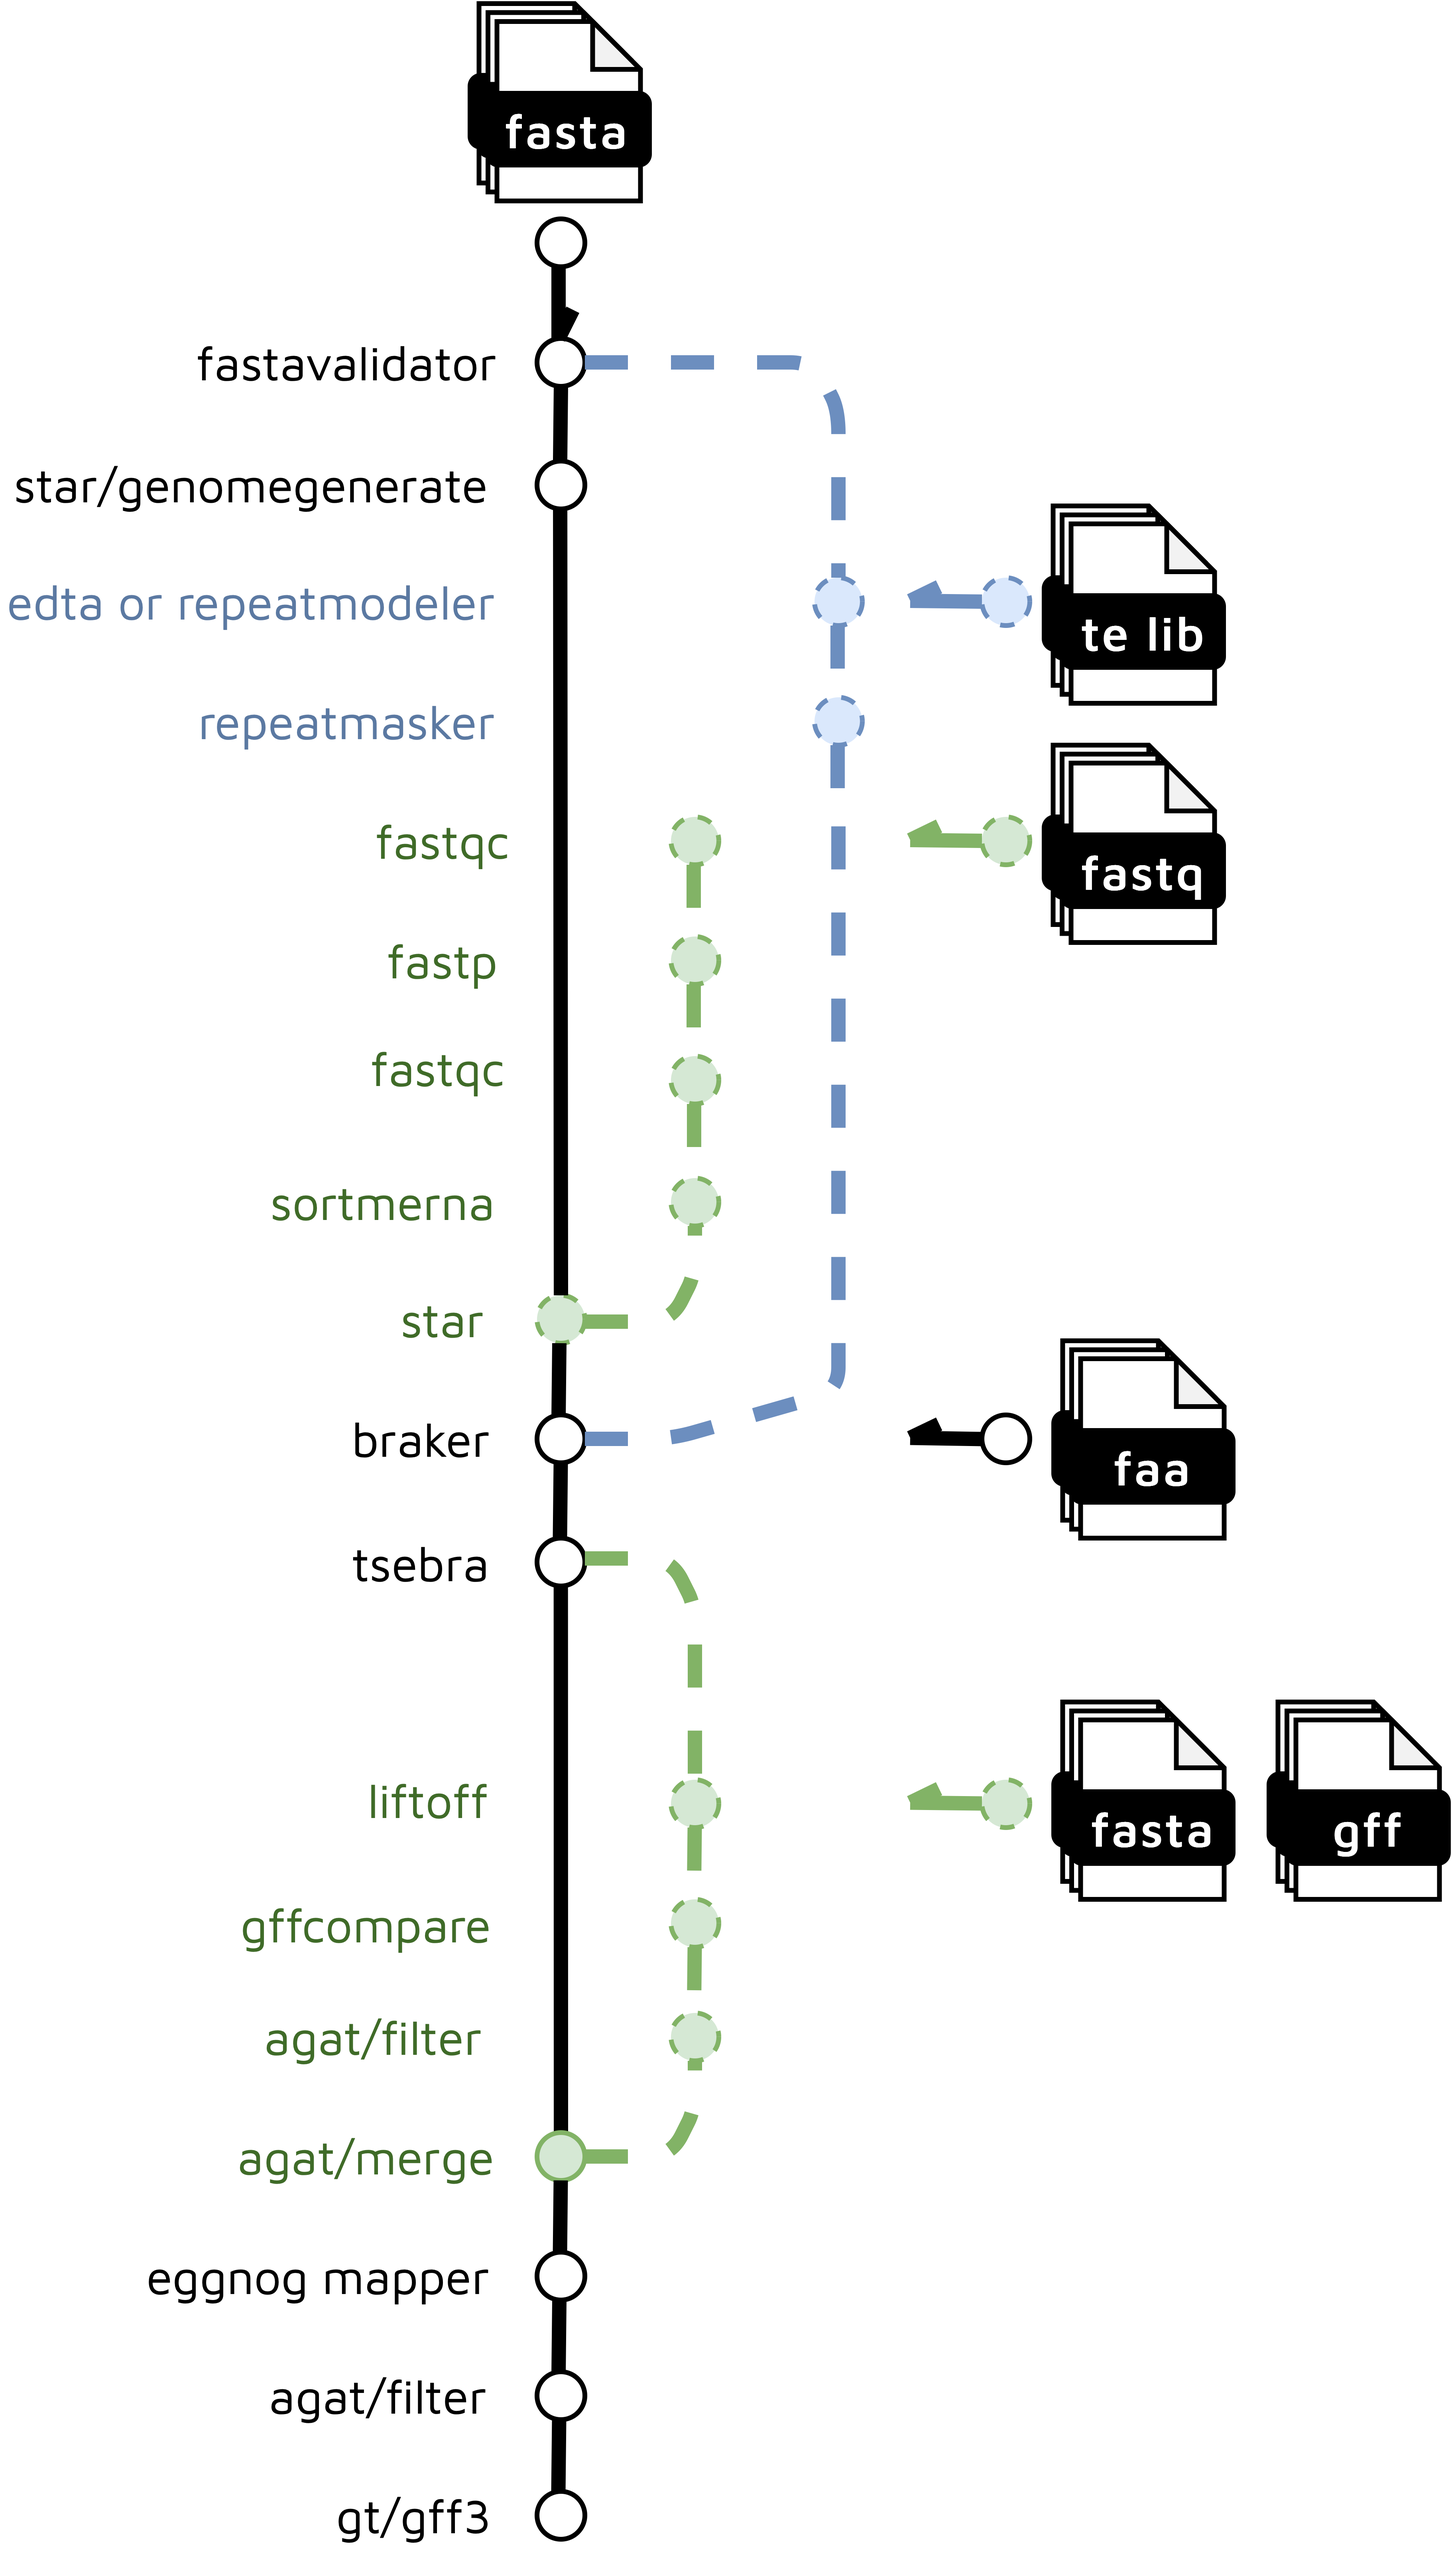
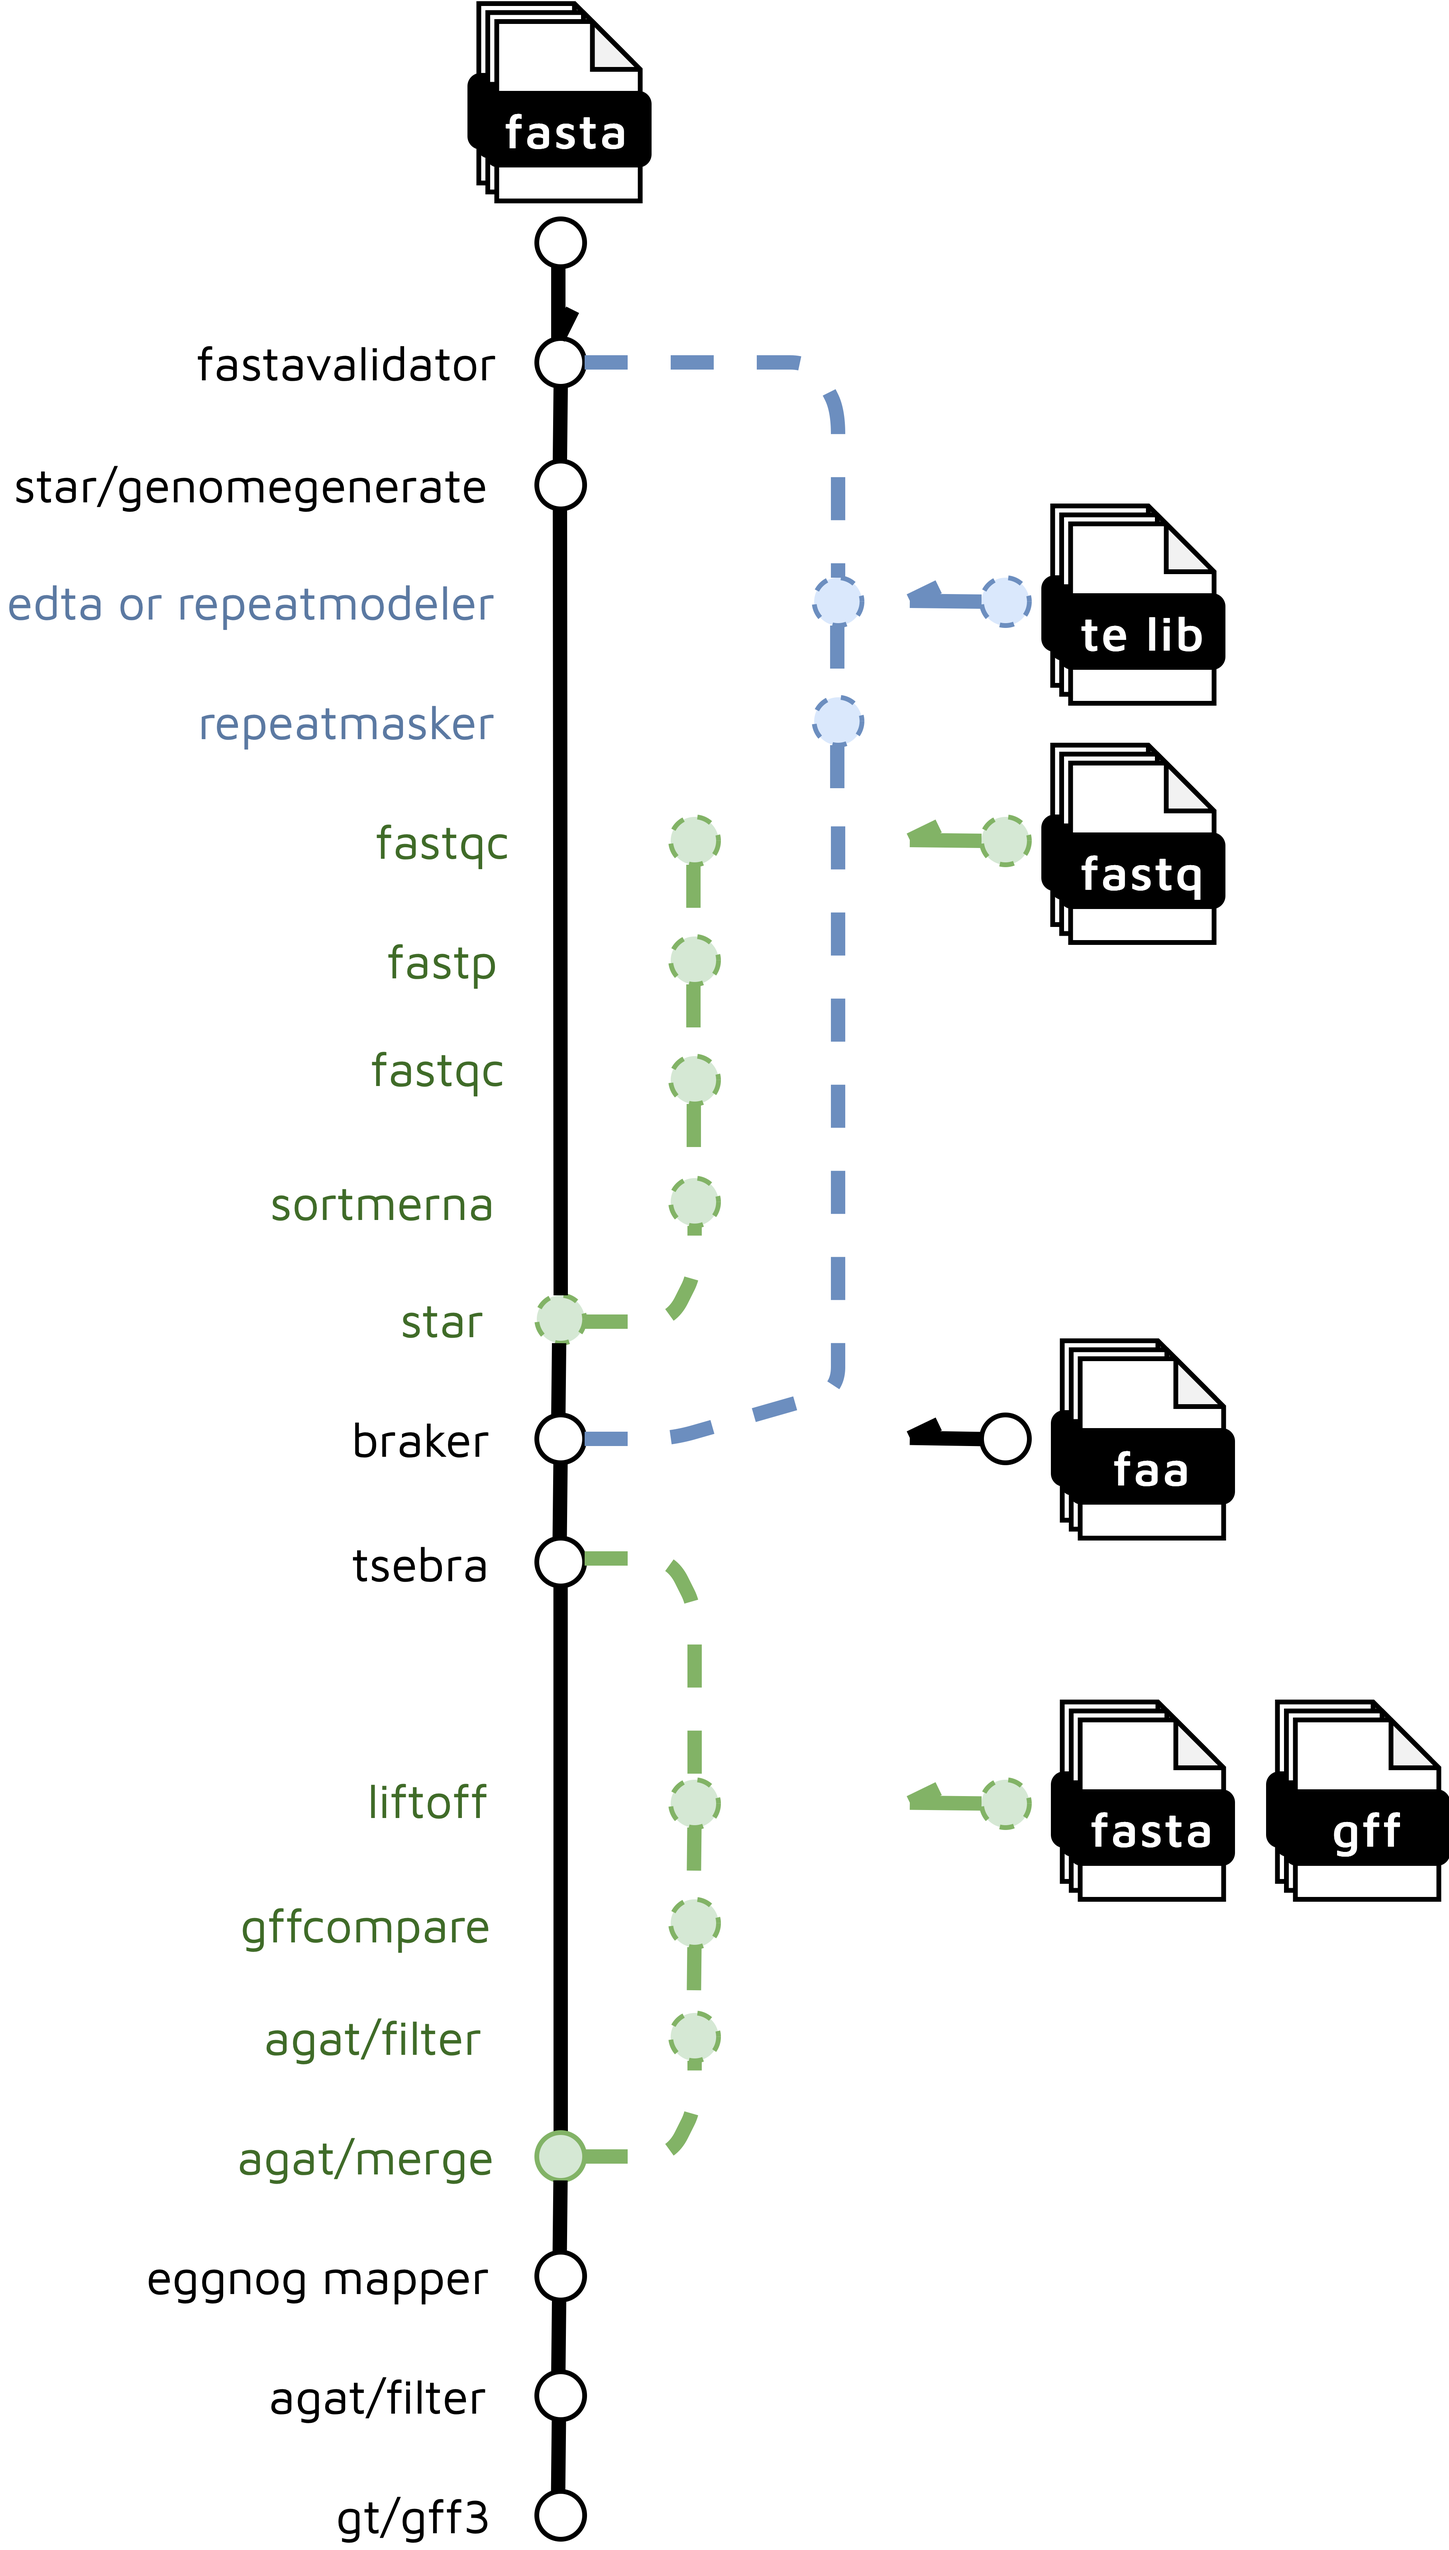
Updated flowchart

diff --git a/README.md b/README.md
@@ -6,7 +6,7 @@ A NextFlow pipeline for pan-genome annotation. It can also be used for annotatio
 
 ## Pipeline Flowchart
 
-<div><img src="docs/img/pangene.png" height="600px" style="background-color:#ffffff;display: block;margin-left: auto;margin-right: auto;"></div>
+<p align="center"><img src="docs/img/pangene.png" height="600px"></p>
 
 ## Alpha Release
 
